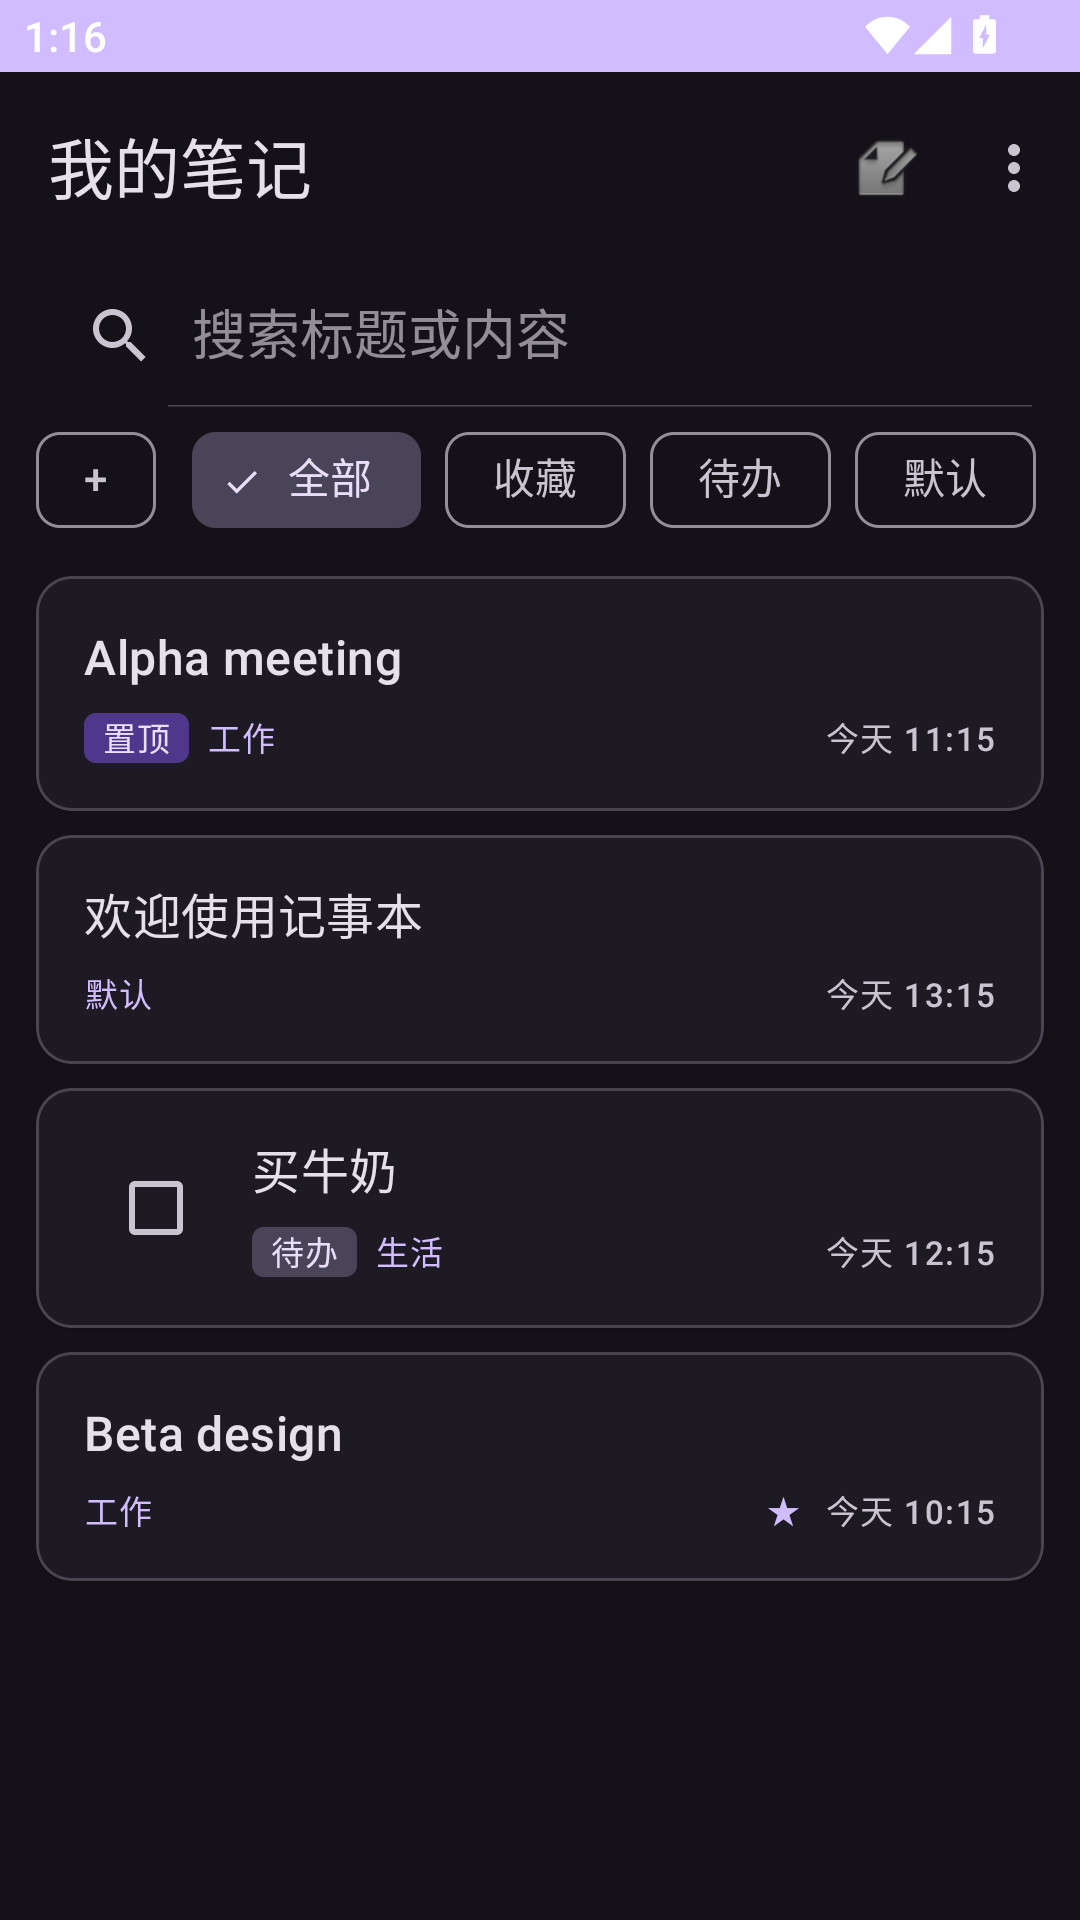
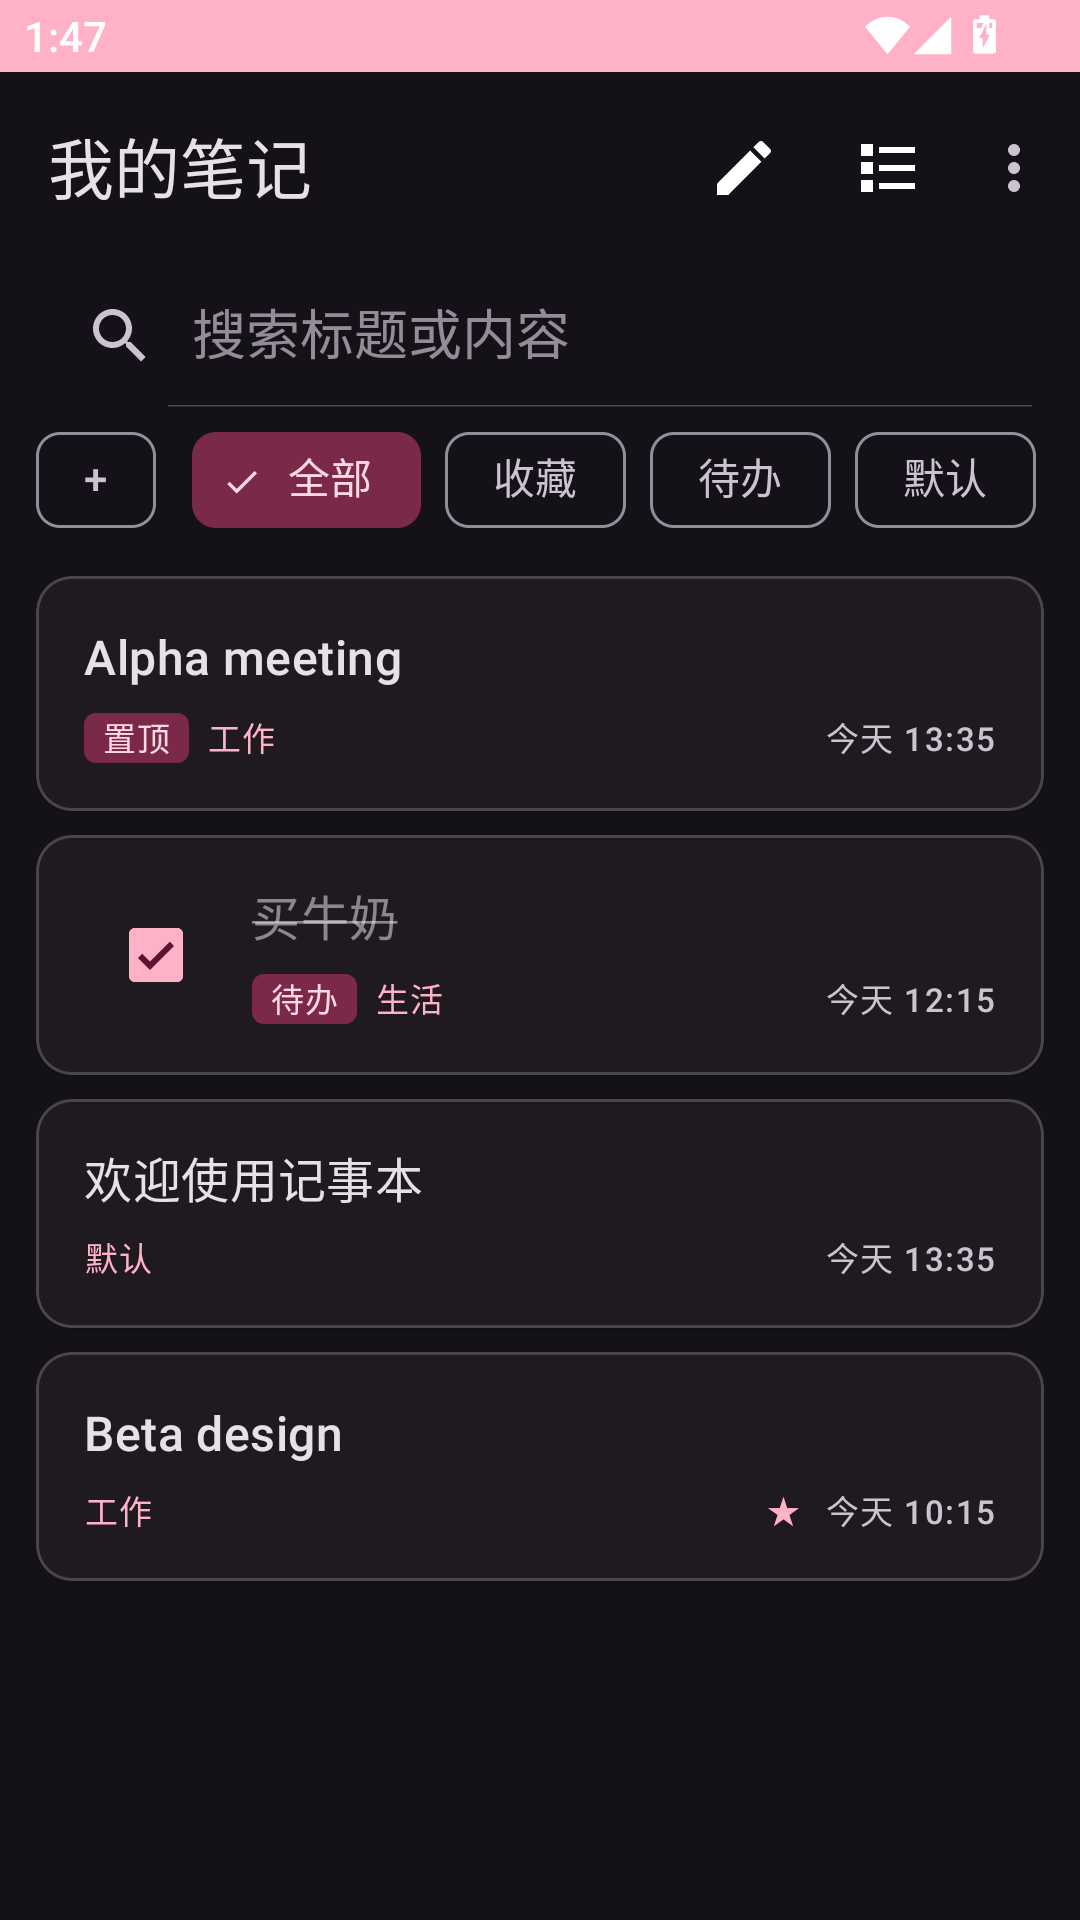
docs: 补充界面入口说明并更新列表截图

diff --git a/README.md b/README.md
@@ -24,6 +24,18 @@
 | 导出与恢复 | JSON 文件，SAF 选择路径，无需存储权限；只导出未删除笔记，恢复时按标题 + 创建时间去重 |
 | 粘贴新建 | 从剪贴板内容创建笔记 |
 
+## 界面入口
+
+| 位置 | 入口 |
+|---|---|
+| 工具栏 | 新建笔记（铅笔图标）、新建待办（清单图标） |
+| 右上角更多 | 粘贴、排序方式、最近删除、设置 |
+| 搜索框 | 输入即按标题 / 正文过滤，命中关键词高亮 |
+| 分类 Chip | 全部 / 收藏 / 待办 / 自定义分类，最左侧 `+` 新建分类 |
+| 长按笔记 | 打开、复制、收藏、置顶、删除 |
+
+新建笔记与新建待办放在同一排工具栏：前者进入空白编辑器，后者进入编辑页时已预设待办标记。
+
 ## 截图
 
 | 列表（含置顶标签） | 搜索关键词高亮 |
